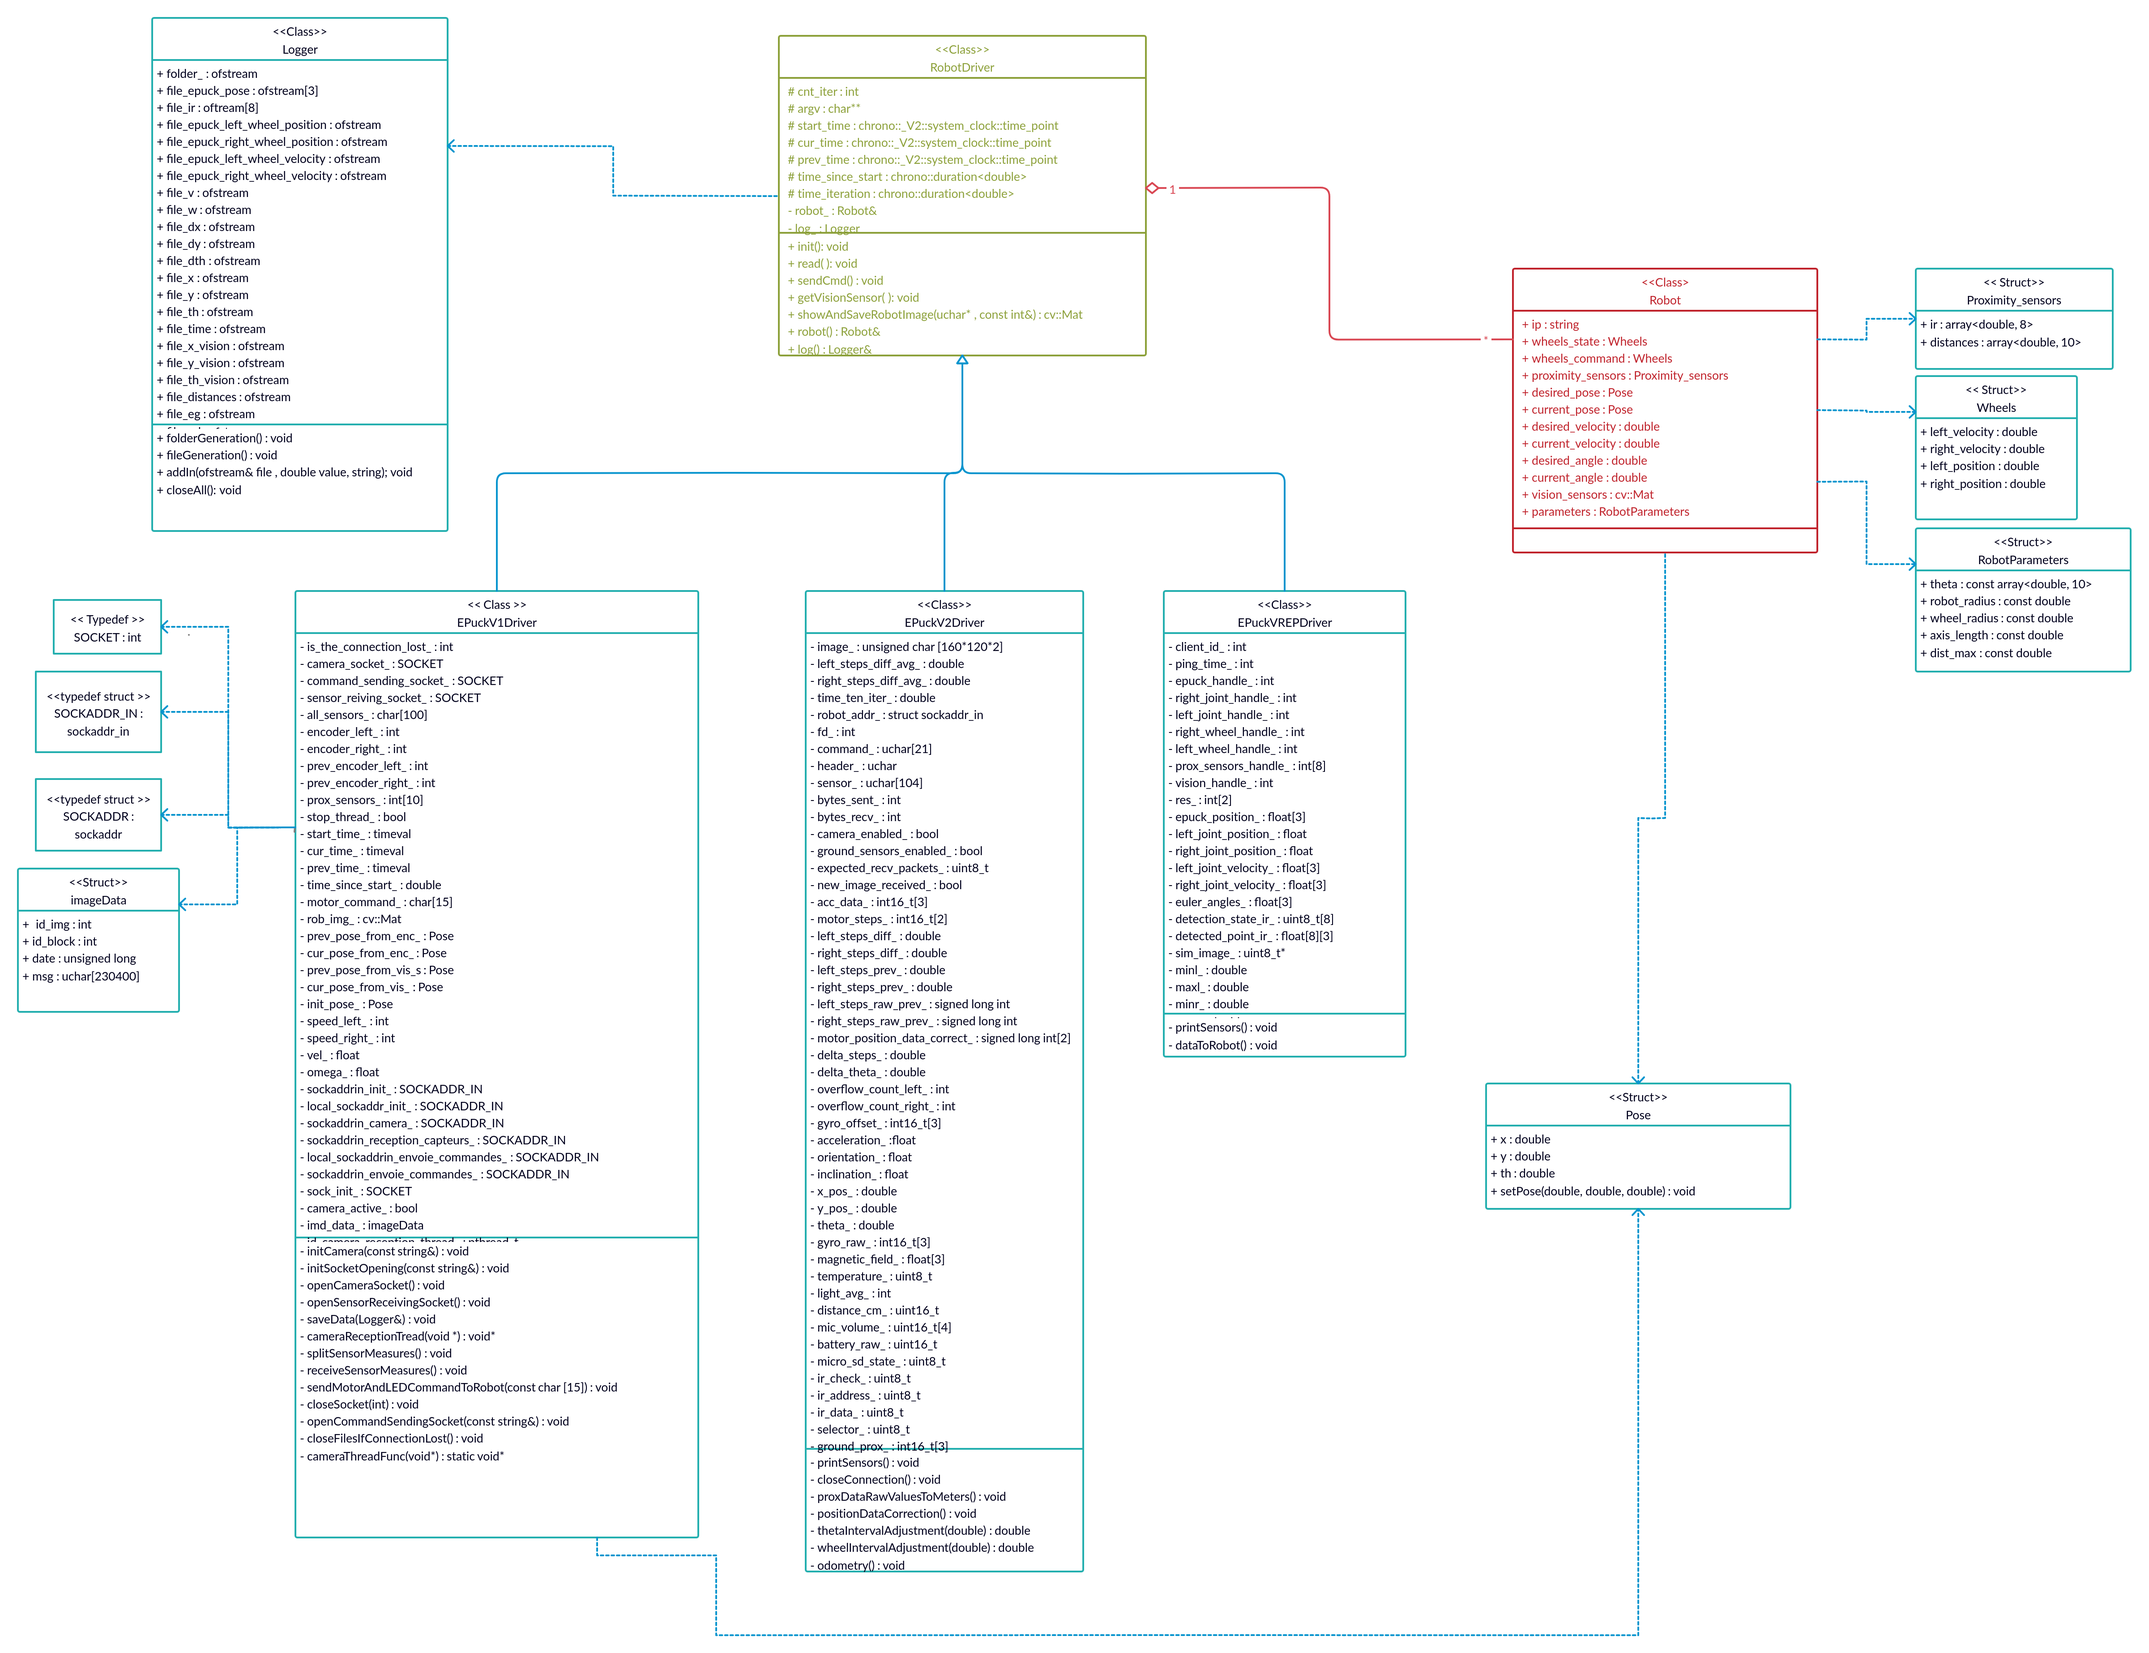
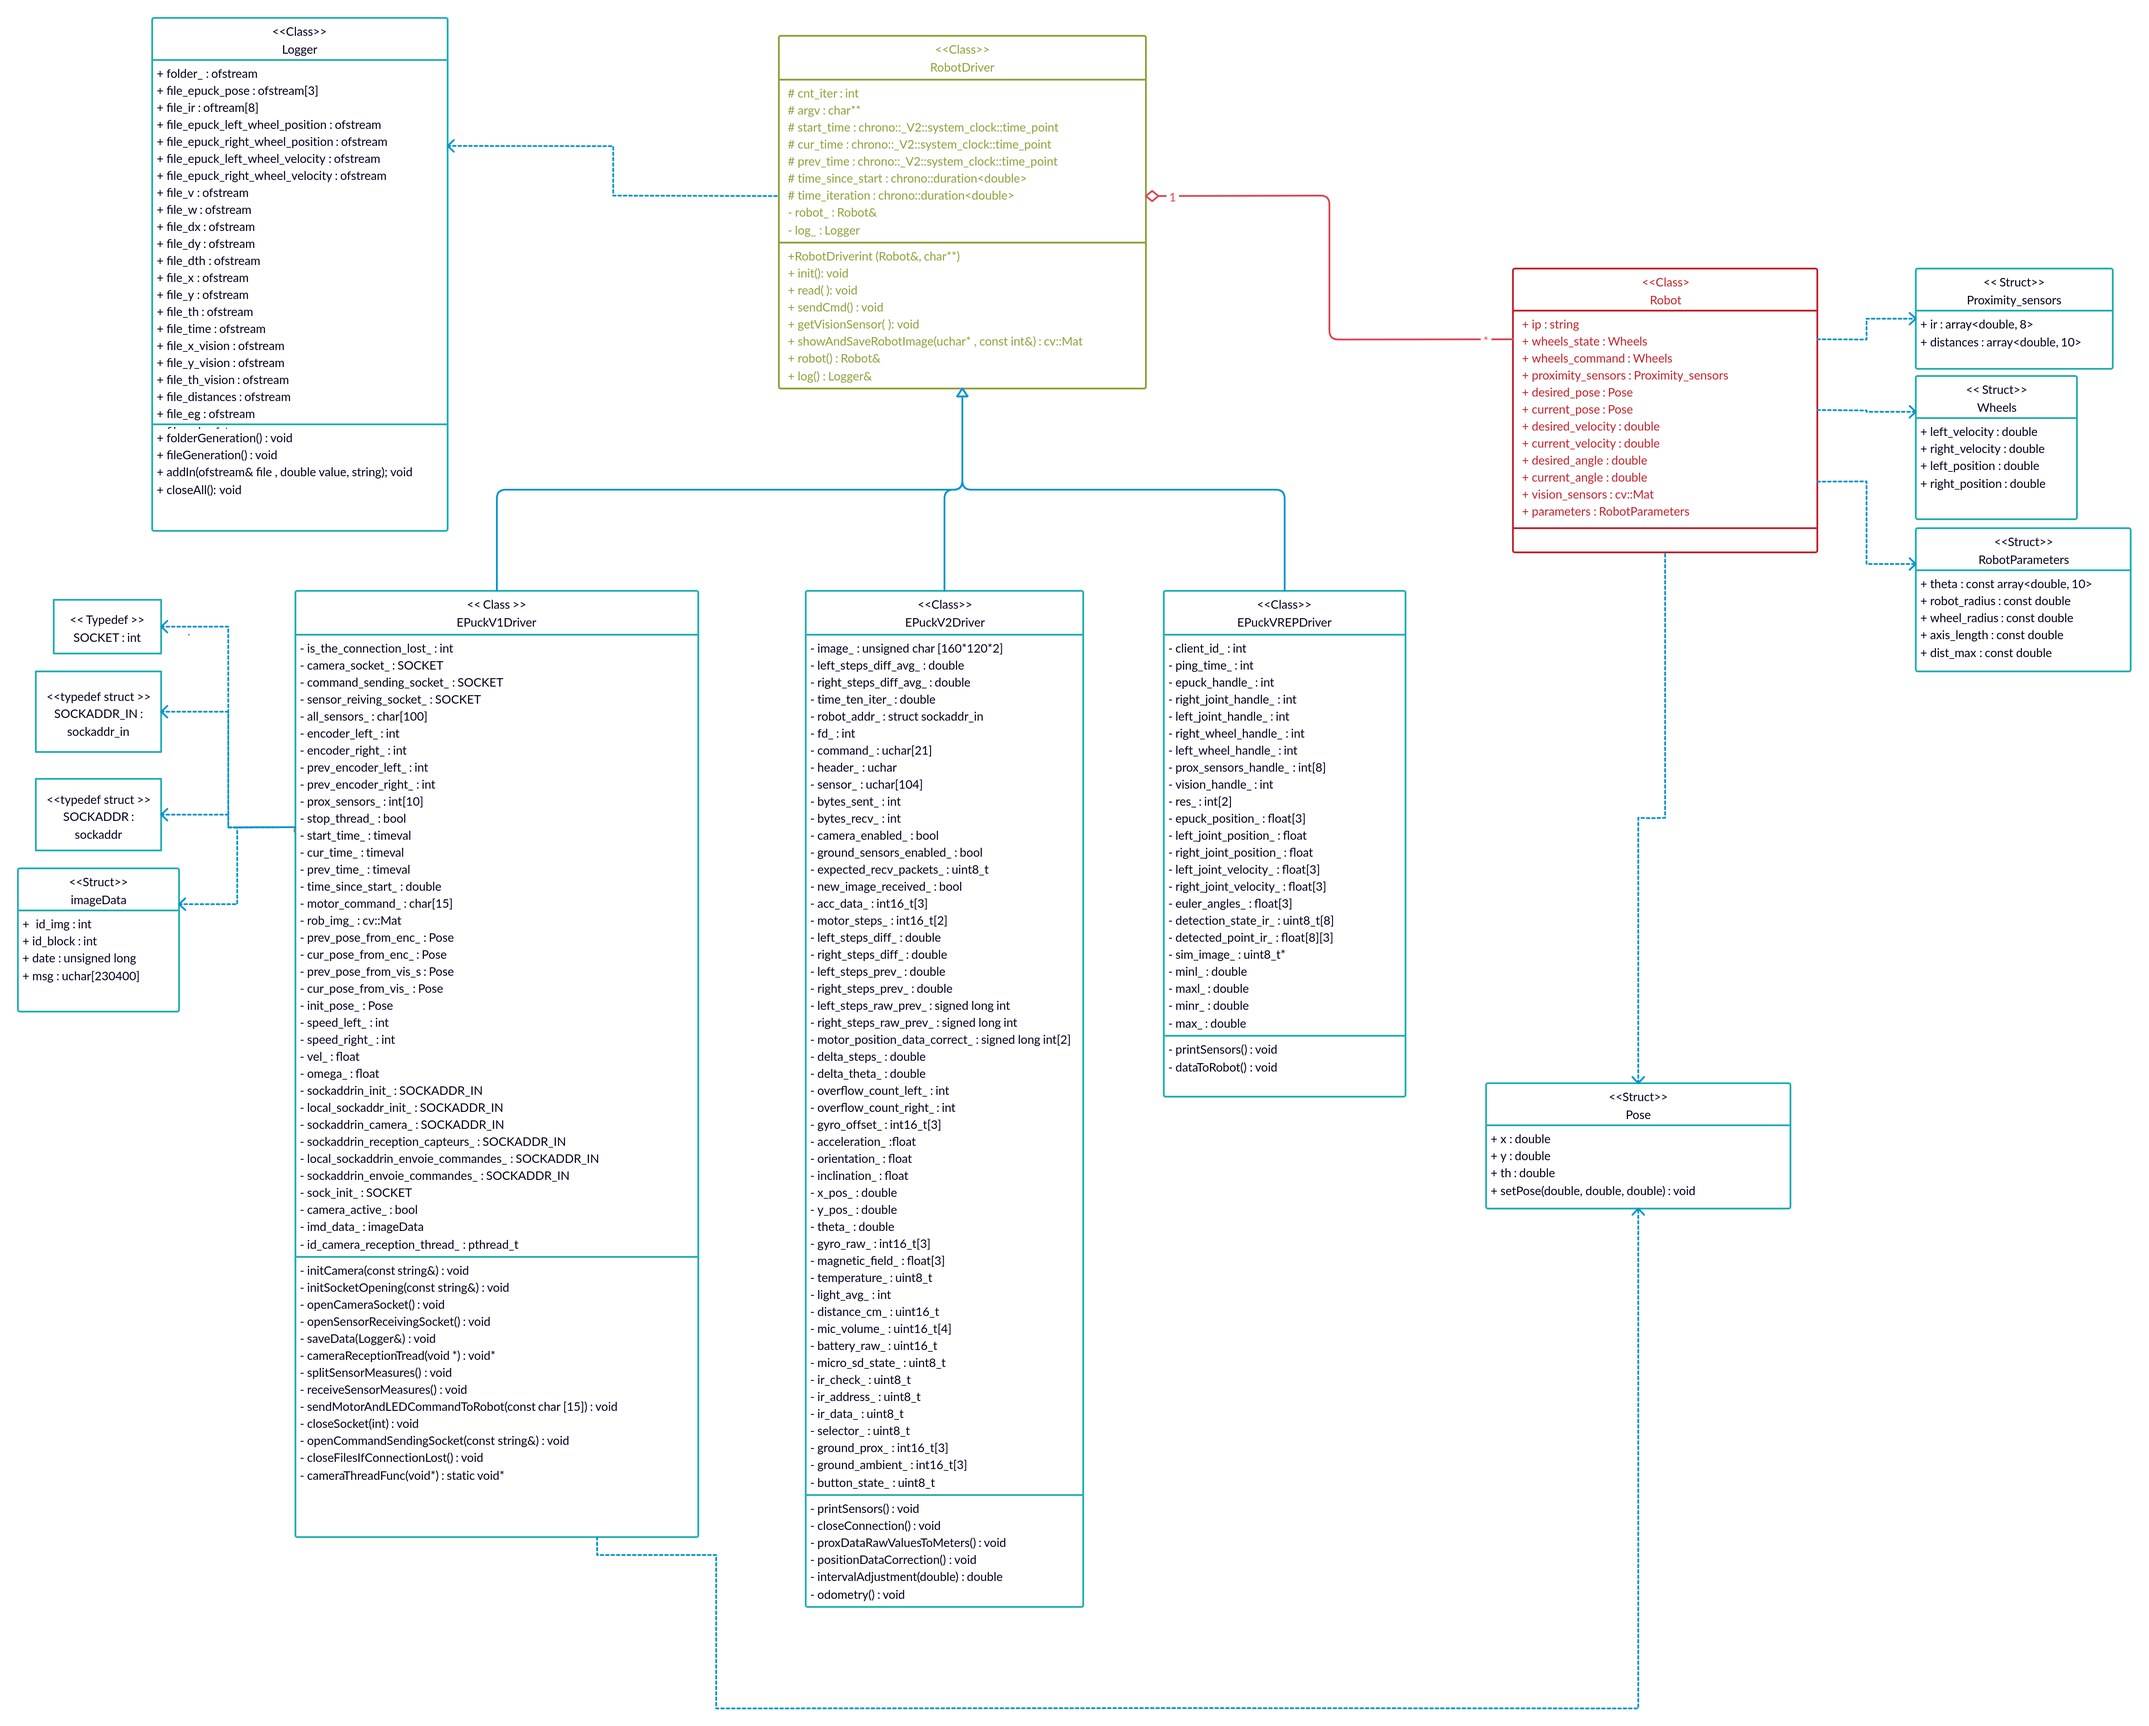
intervalAdjustment

diff --git a/src/epuck/EPuckV2Driver.cpp b/src/epuck/EPuckV2Driver.cpp
@@ -636,9 +636,10 @@ void EPuckV2Driver::positionDataCorrection() {
 
 	robot().current_pose.x = x_pos_;
 	robot().current_pose.y = y_pos_;
-	robot().current_pose.th = thetaIntervalAdjustment(theta_);
-	robot().wheels_state.left_position= wheelIntervalAdjustment(motor_position_data_correct_[0]);//%1000)*(2*M_PI/1000);
-	robot().wheels_state.right_position= wheelIntervalAdjustment(motor_position_data_correct_[1]); //(motor_position_data_correct_[1]%1000)*(2*M_PI/1000);
+	robot().current_pose.th = intervalAdjustment(theta_);
+	robot().wheels_state.left_position= intervalAdjustment(std::fmod(motor_position_data_correct_[0],1000)*(2*M_PI/1000));
+	robot().wheels_state.right_position= intervalAdjustment(std::fmod(motor_position_data_correct_[1],1000)*(2*M_PI/1000));
+
 
 	cur_time = std::chrono::high_resolution_clock::now();
 
@@ -661,7 +662,7 @@ void EPuckV2Driver::positionDataCorrection() {
 
 }
 
-double EPuckV2Driver::thetaIntervalAdjustment(double val){
+double EPuckV2Driver::intervalAdjustment(double val){
     if (val < 0) {
         if (val > -M_PI){
             val = std::fabs(val) + M_PI;
@@ -675,20 +676,4 @@ double EPuckV2Driver::thetaIntervalAdjustment(double val){
         val = -val + M_PI;
 	
 	return val;
-}
-
-double EPuckV2Driver::wheelIntervalAdjustment(double val) {
-	val = std::fmod(val,1000)*(2*M_PI/1000);
-	if(val < 0 ) {
-		if (val > -M_PI){
-            val = std::fabs(val) + M_PI;
-        } else {
-            val = std::fabs(val) - M_PI;
-        } 
-	}
-	if (val > M_PI)
-        val = -val + M_PI;
-	
-	return val;
-
 }

diff --git a/src/epuck/EPuckV1Driver.cpp b/src/epuck/EPuckV1Driver.cpp
@@ -75,7 +75,6 @@ bool EPuckV1Driver::init() {
 
 // TODO
 void EPuckV1Driver::read() {
-    //robot().vision_sensors = showAndSaveRobotImage(img_data_.msg, cnt_iter); 
     std::cout << "\033[1;36m";//write in bold cyan
     std::cout << "\nSTART ITERATION " << cnt_iter <<" \n";
     std::cout << "\033[0m";//reset color
@@ -121,10 +120,6 @@ void EPuckV1Driver::read() {
 
 
 void EPuckV1Driver::sendCmd() {
-      /////////////////////////
-     /////////TIME////////////
-    /////////////////////////
-
     // Sends the command to the epuck motors
     gettimeofday(&cur_time_, NULL);
     time_since_start_ =

diff --git a/include/epuck/RobotDriver.hpp b/include/epuck/RobotDriver.hpp
@@ -152,8 +152,7 @@ private:
     void closeConnection();
     void proxDataRawValuesToMeters();
     void positionDataCorrection();
-    double thetaIntervalAdjustment(double);
-    double wheelIntervalAdjustment(double);
+    double intervalAdjustment(double);
     void odometry();
 
     unsigned char image_[160*120*2];
